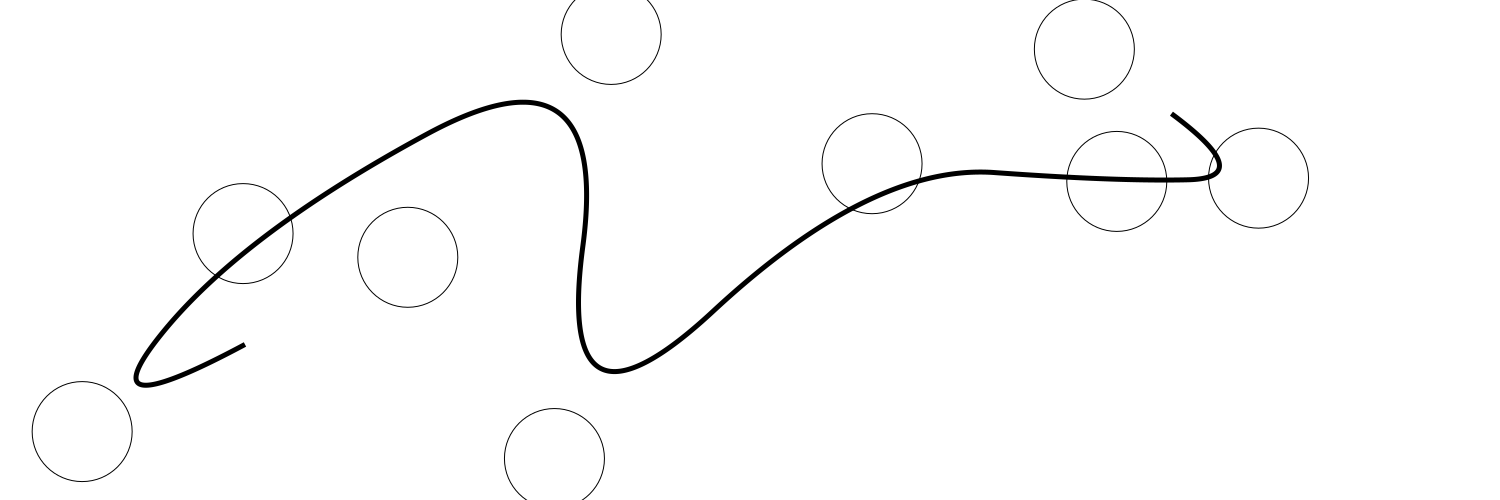
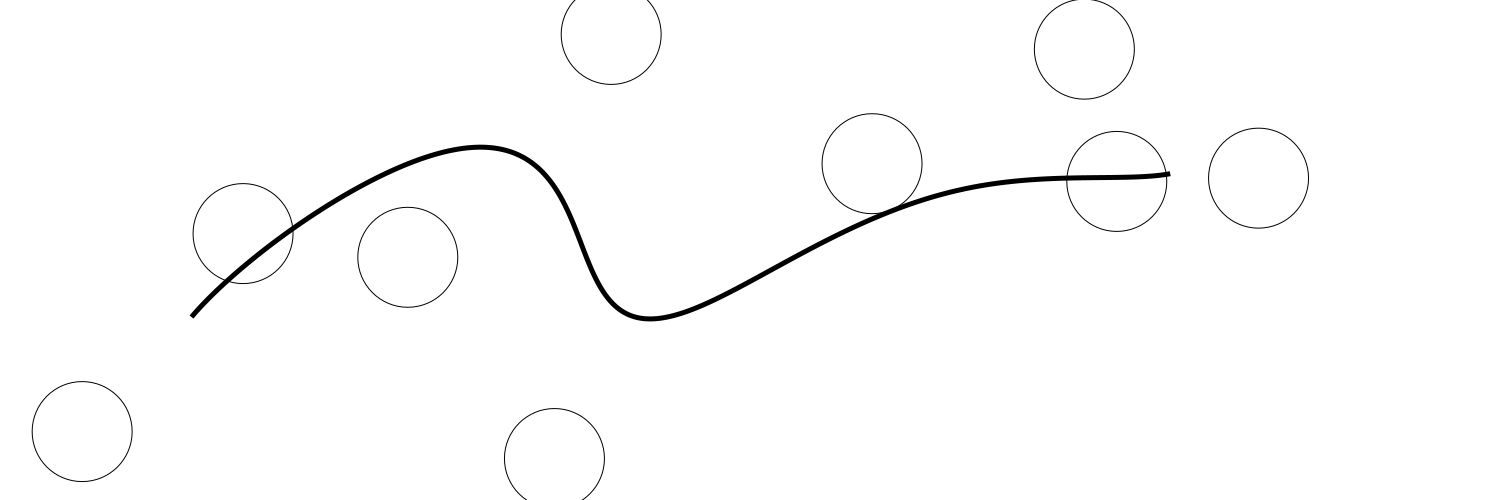
degree control

diff --git a/src/spline.py b/src/spline.py
@@ -5,11 +5,10 @@ from os import environ
 from matplotlib.pyplot import close, savefig, subplots, tight_layout
 
 
-def interpolate(points):
+def interpolate(points, degree):
     # rip off of https://github.com/thibauts/b-spline
     n = len(points)
     d = len(points[0])
-    degree = 2
     if n <= degree:
         raise ValueError("len(points) must be greater than 2")
     knots = list(range(n + degree + 1))
@@ -34,8 +33,10 @@ def interpolate(points):
     return f
 
 
-def spline(points, t):
-    return map(interpolate(points), map(lambda x: x / t, range(0, t + 1, 1)))
+def spline(points, degree, t):
+    return map( interpolate(points, degree)
+              , map(lambda x: x / t, range(0, t + 1, 1))
+              )
 
 
 def plot(xs, ys):
@@ -62,7 +63,7 @@ def main():
         , [0, -2.75]
         , [5, -5]
         ]
-    plot(points, spline(points, 5000))
+    plot(points, spline(points, 4, 5000))
 
 
 if __name__ == "__main__":
